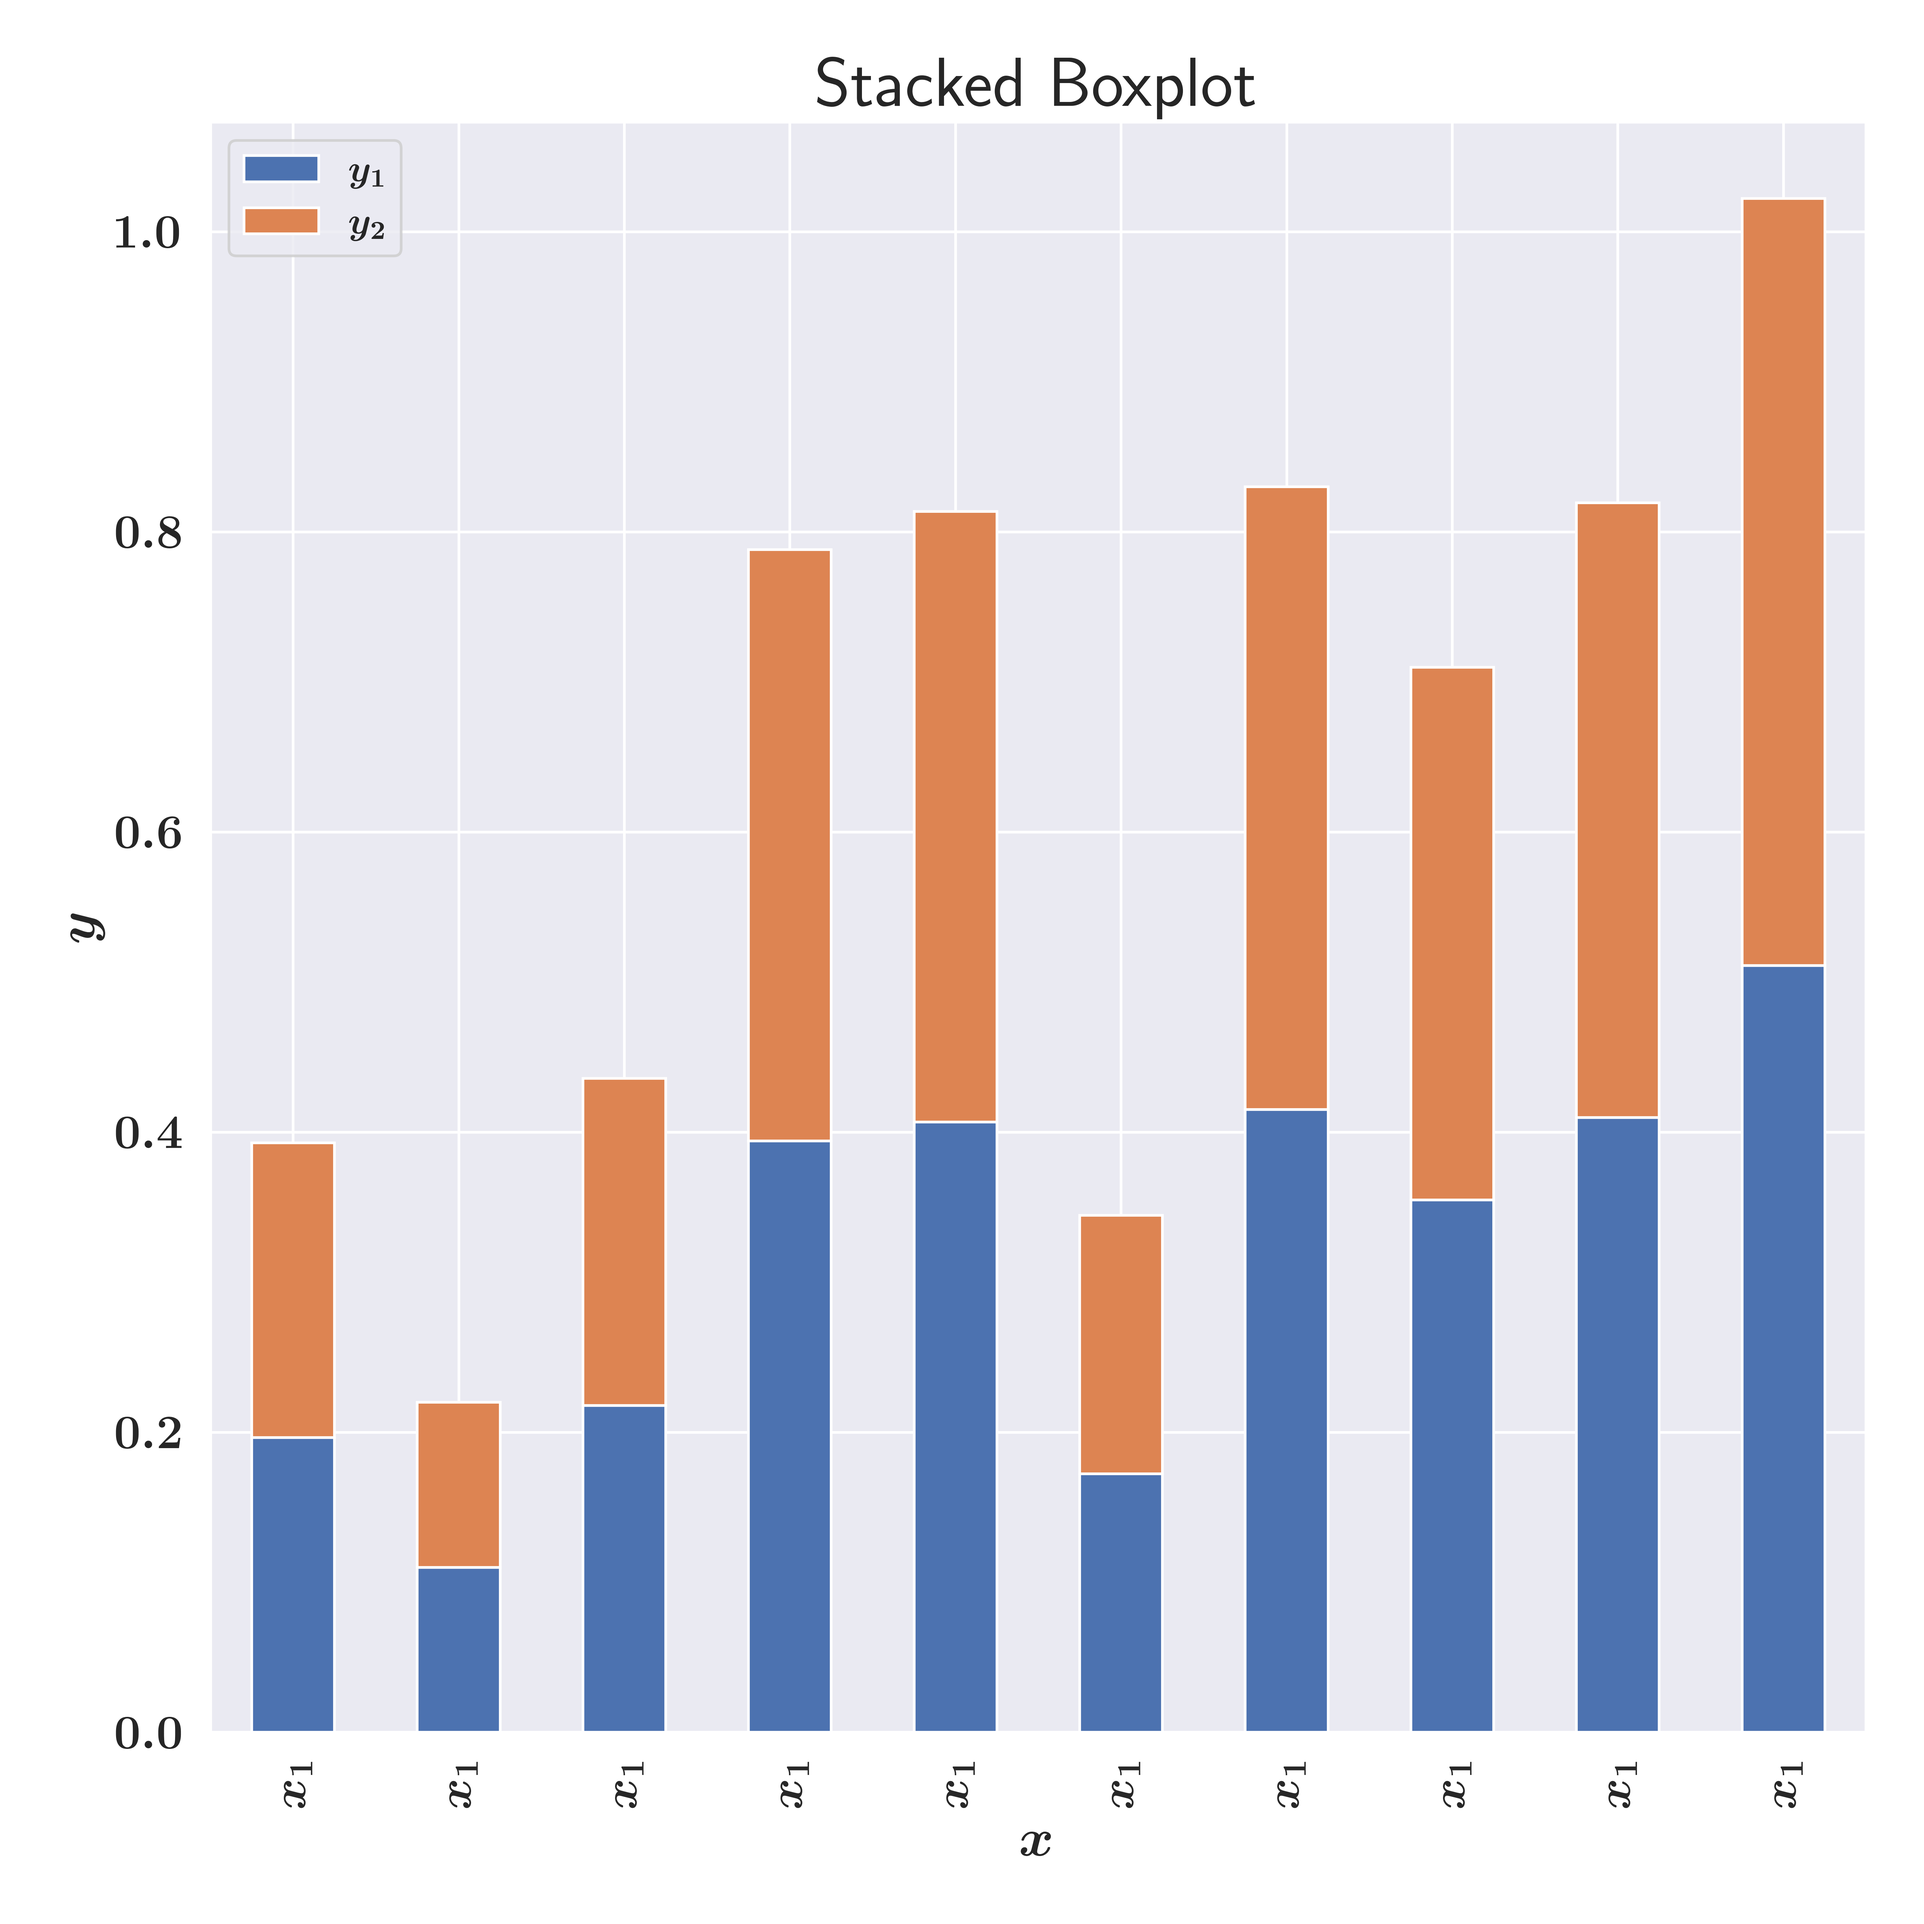
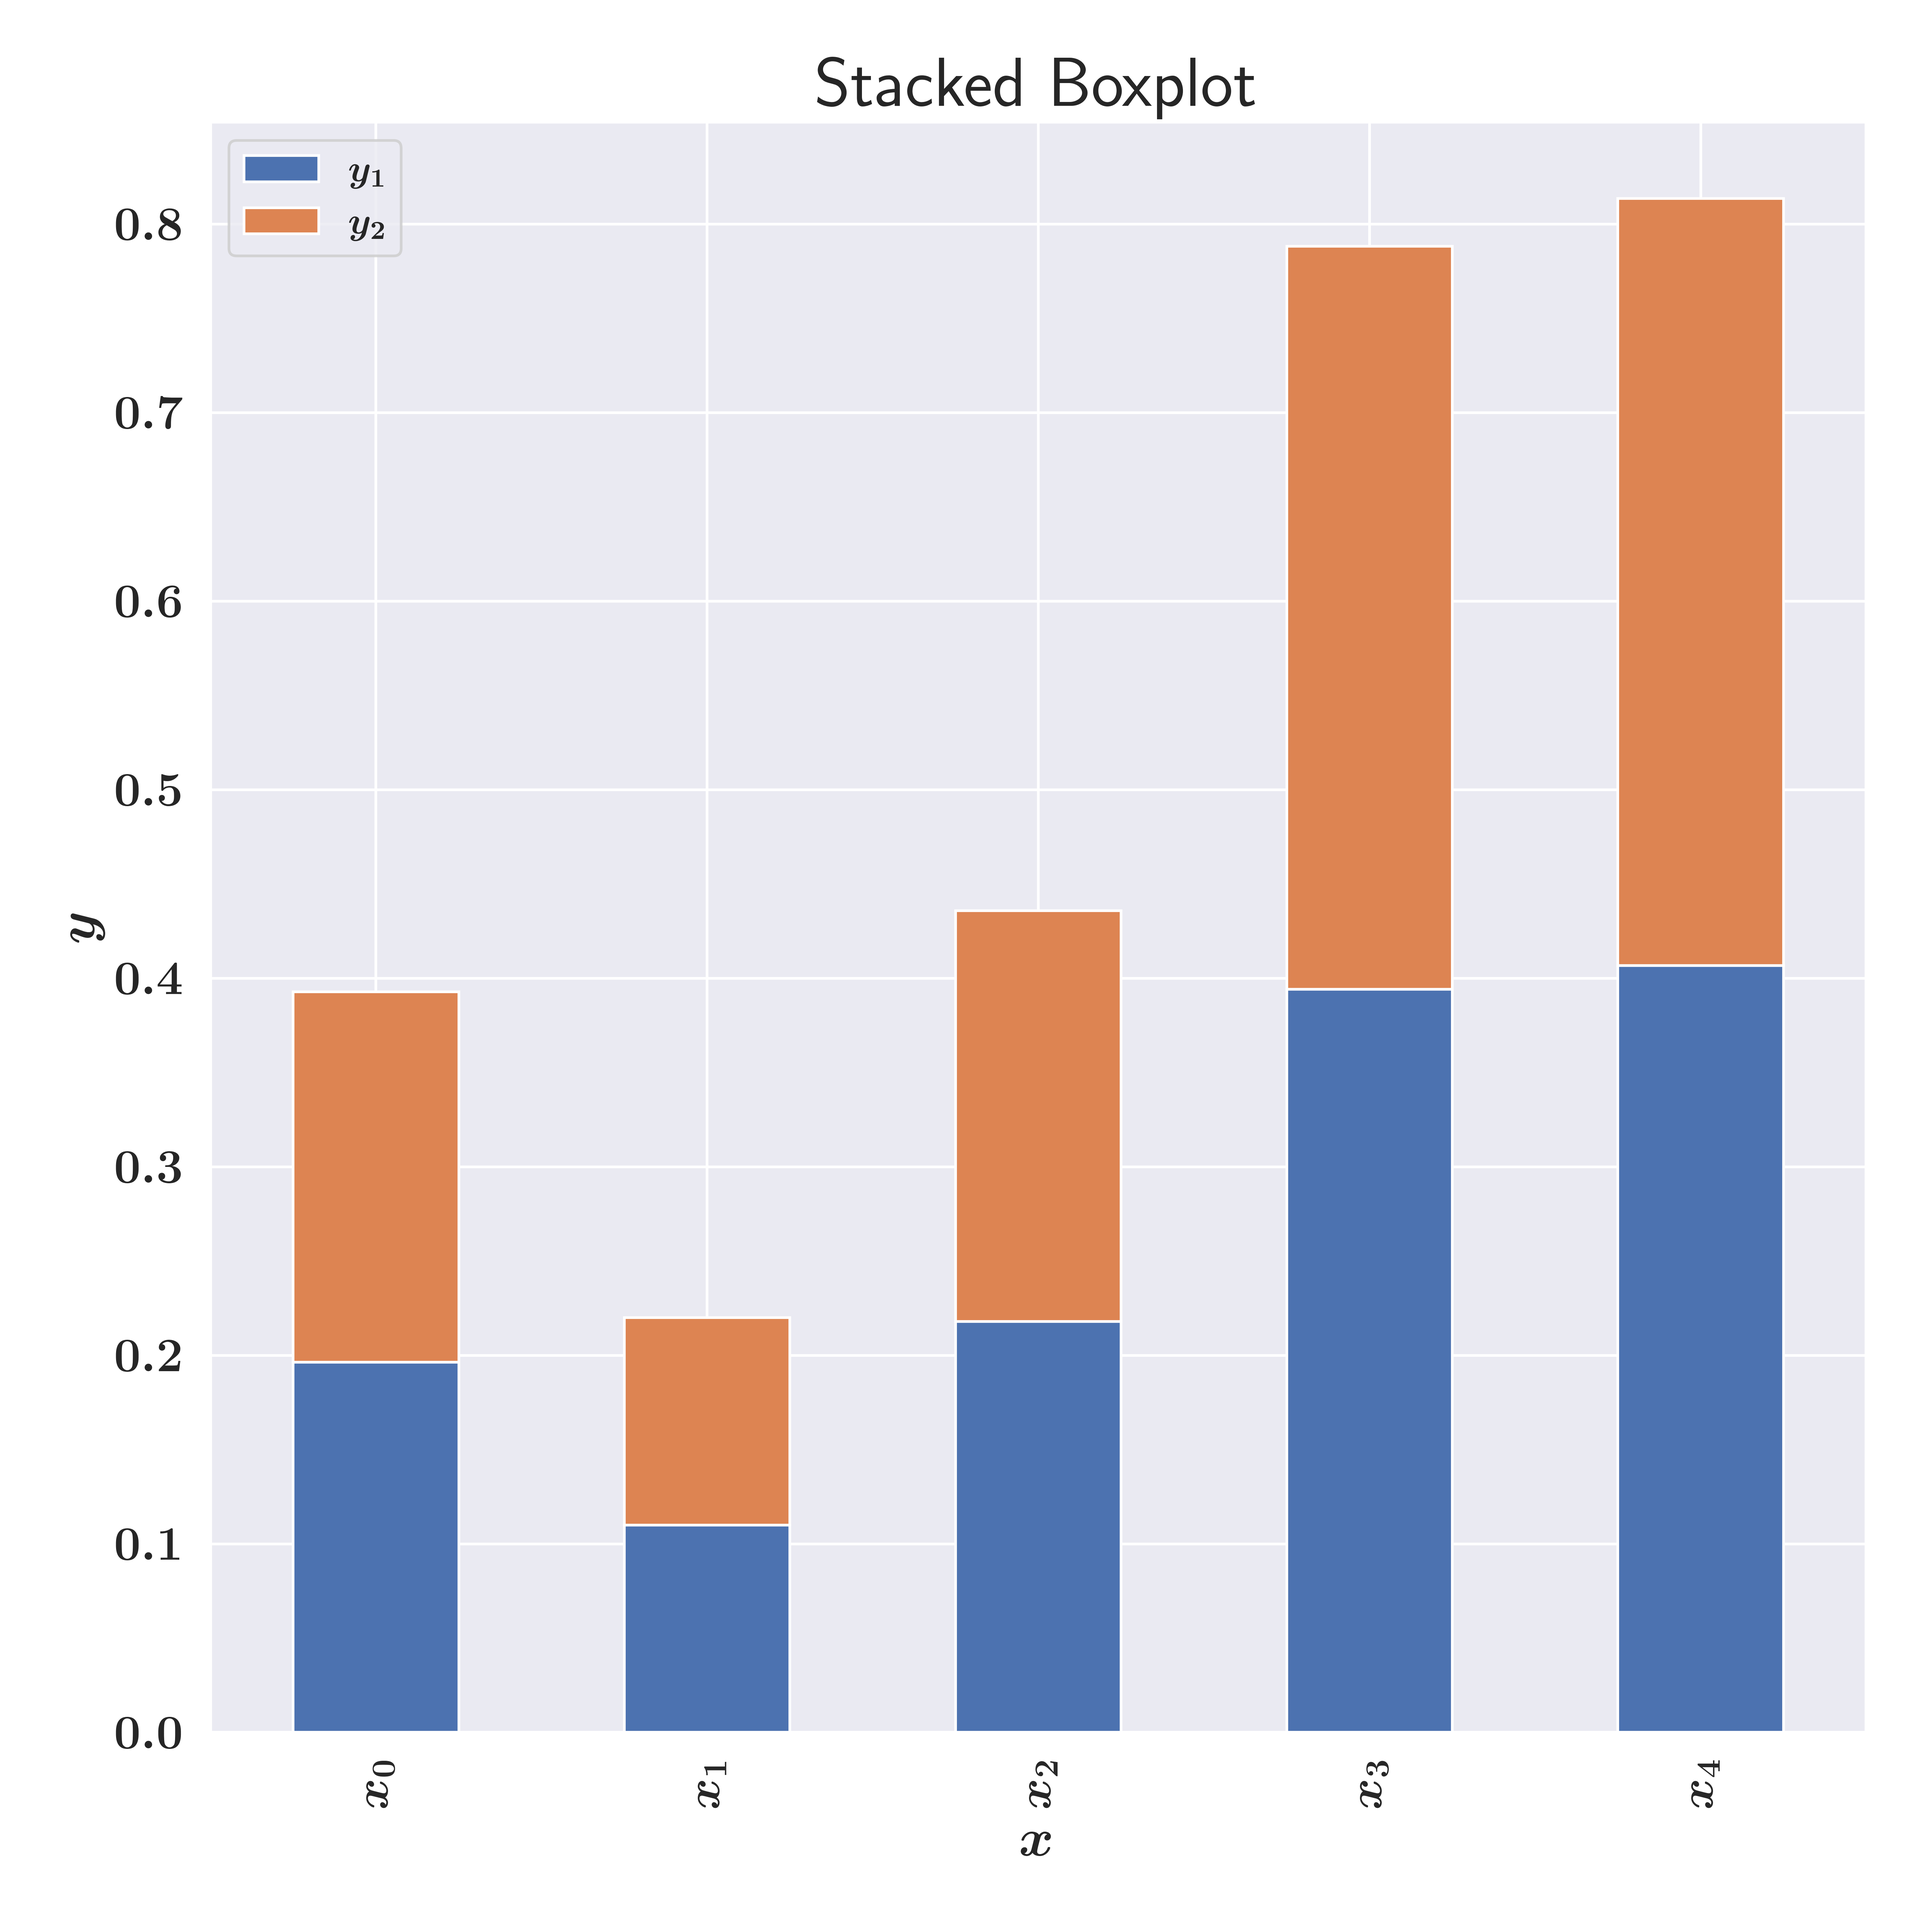
Made stacked plot nicer

diff --git a/examples/boxplot_examples.py b/examples/boxplot_examples.py
@@ -111,5 +111,6 @@ if __name__ == "__main__":
     # Test stacked boxplot
     df["$y_2$"] = df["$y$"] + 0.02
     df["$y_1$"] = df["$y$"] + 0.02
-    df = df.iloc[:10, :]
+    df = df.iloc[:5, :]
+    df["$x$"] = ["$x_%d$" % i for i in range(5)]
     test_stacked_boxplot(df=df, x_var="$x$", y_var=["$y_1$", "$y_2$"], y_label="$y$")
